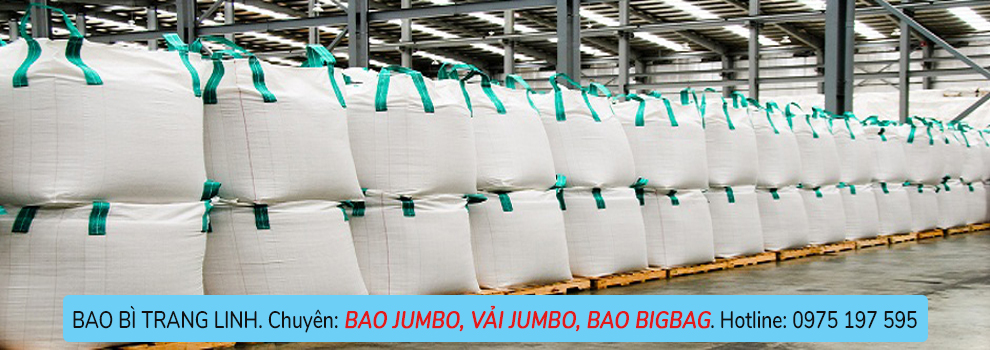
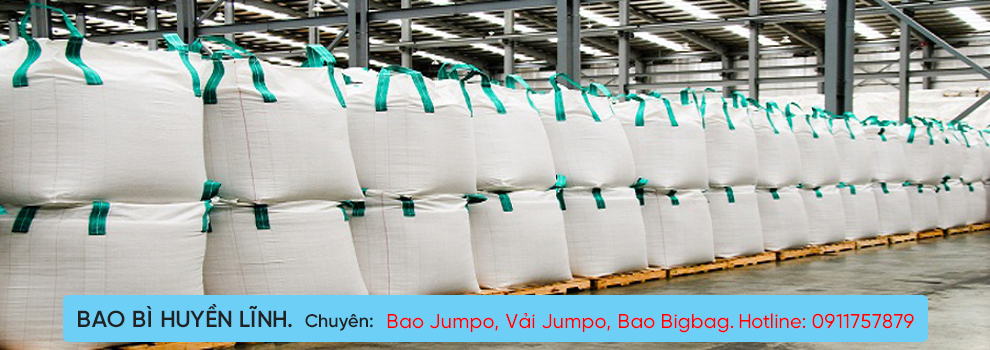
change slider images

Changed region(s): [[0.0606, 0.8857, 0.9394, 0.9429]]

diff --git a/index.html b/index.html
@@ -131,7 +131,7 @@
             <strong>BAO BIGBAG</strong>
             phục vụ các ngành nông sản, khoáng sản, hóa chất, phế liệu,...
           </p>
-          <img class="highlight__symbol" src="imgs/Package.png" alt="bao bì" />
+          <!-- <img class="highlight__symbol" src="imgs/Package.png" alt="bao bì" /> -->
         </div>
         <div class="slider-wrapper theme-default">
           <div class="nivoSlider" id="slider">
